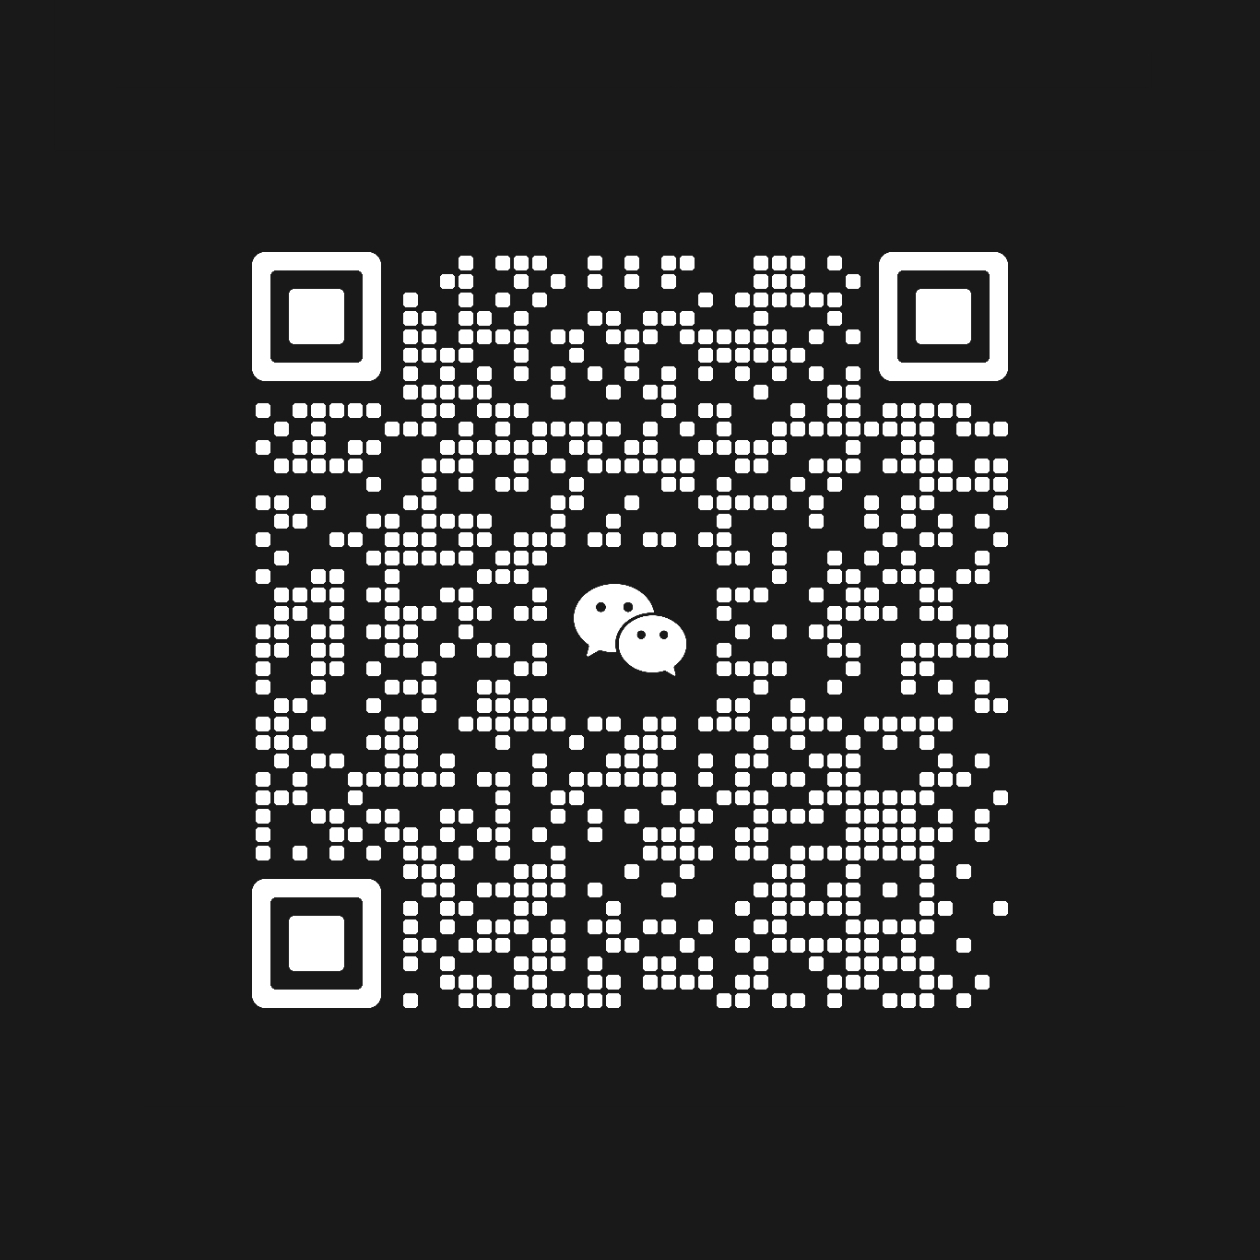
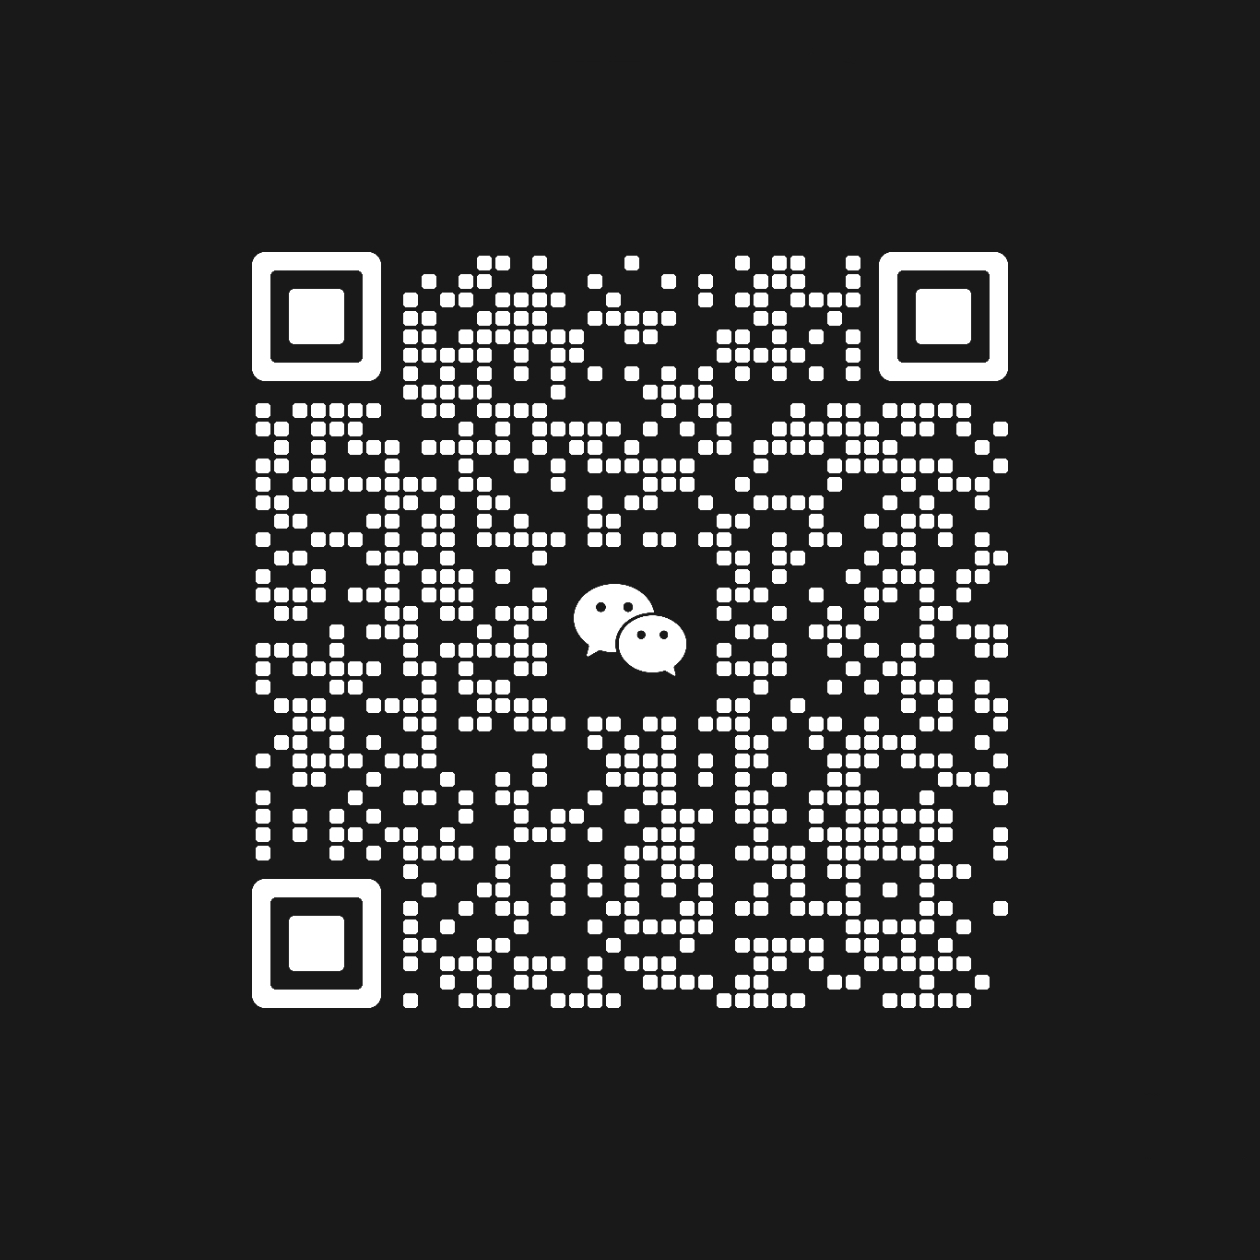
更新群二维码(浅色/深色) + 到期日期改至8月13日

diff --git a/index.html b/index.html
@@ -1813,7 +1813,7 @@
         img.style.aspectRatio = '1';
         const hint = document.createElement('p');
         hint.className = 'qr-modal-hint';
-        hint.textContent = currentLang === 'en' ? 'Long press or scan to join · Valid until Aug 6' : '长按识别或扫码入群 · 8月6日前有效';
+        hint.textContent = currentLang === 'en' ? 'Long press or scan to join · Valid until Aug 13' : '长按识别或扫码入群 · 8月13日前有效';
         const closeHint = document.createElement('p');
         closeHint.className = 'qr-modal-close';
         closeHint.textContent = currentLang === 'en' ? 'Tap anywhere to close' : '点击任意位置关闭';
